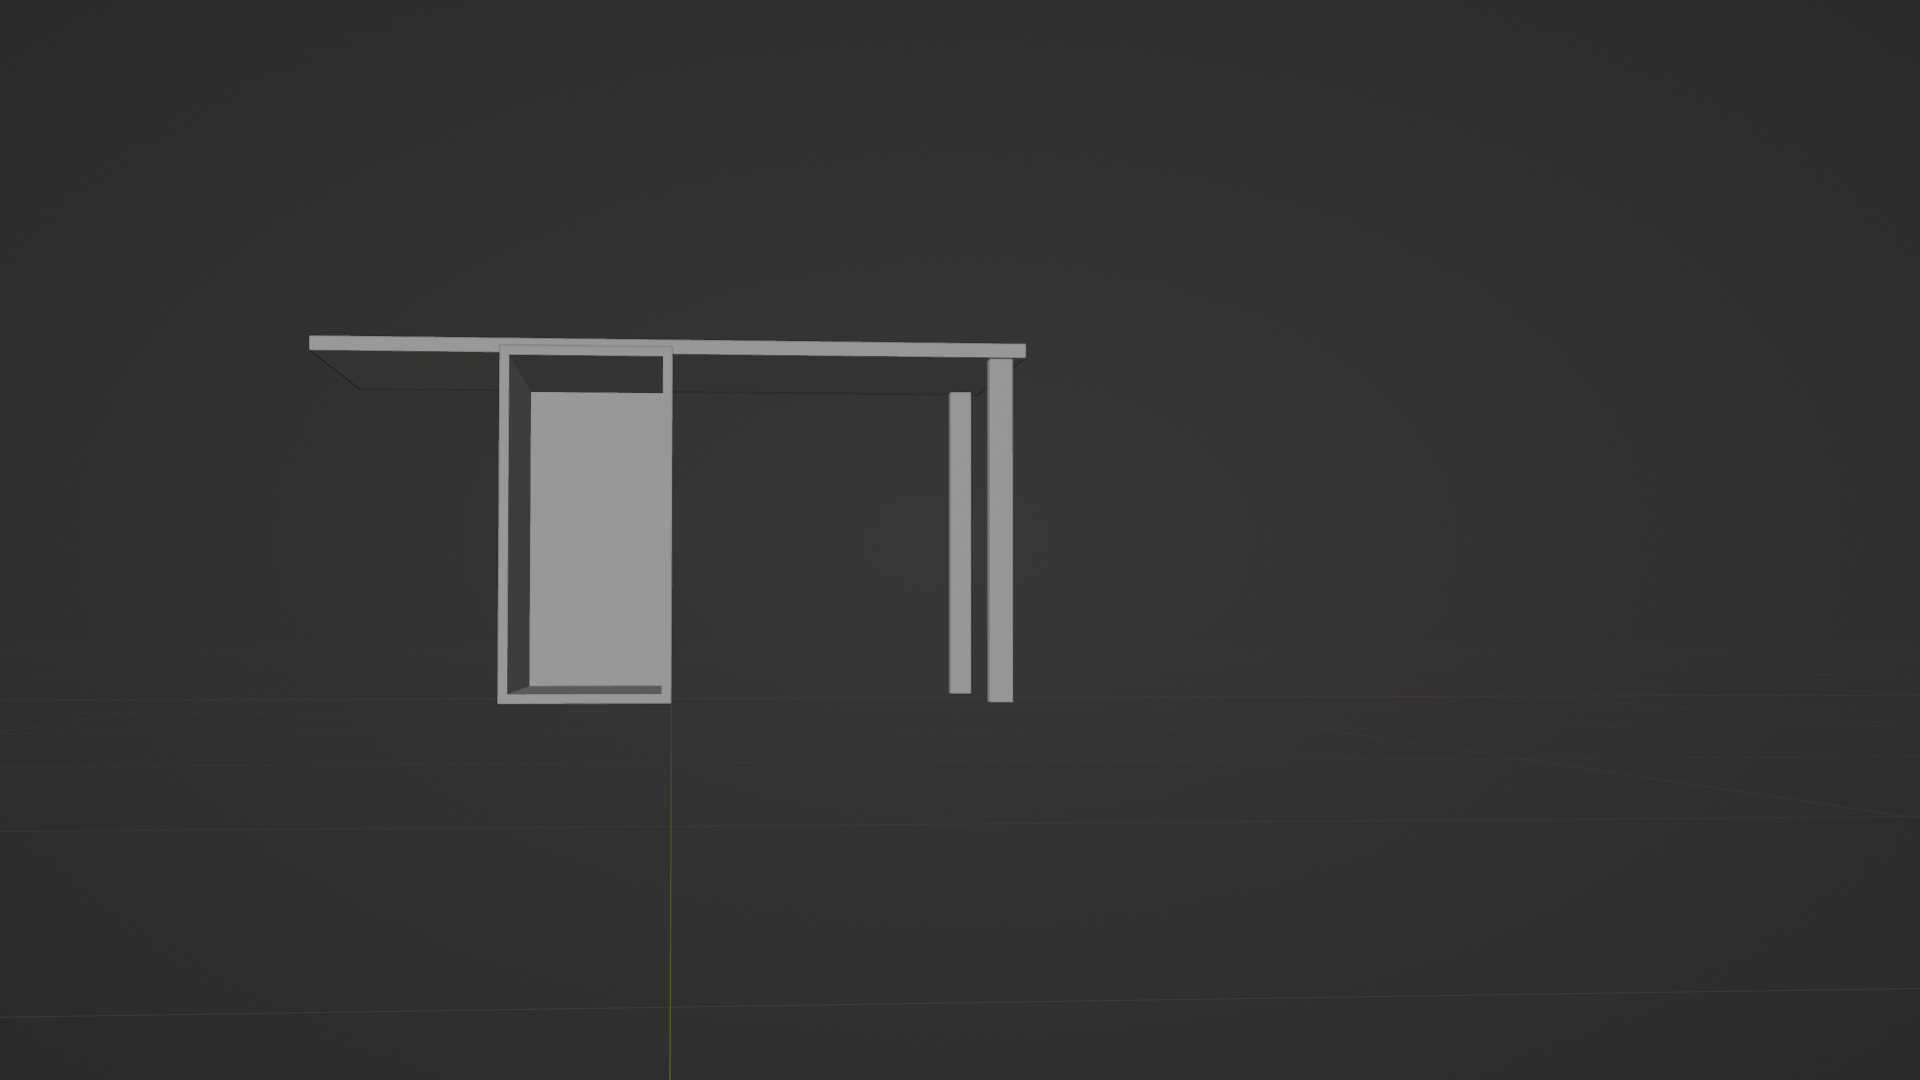
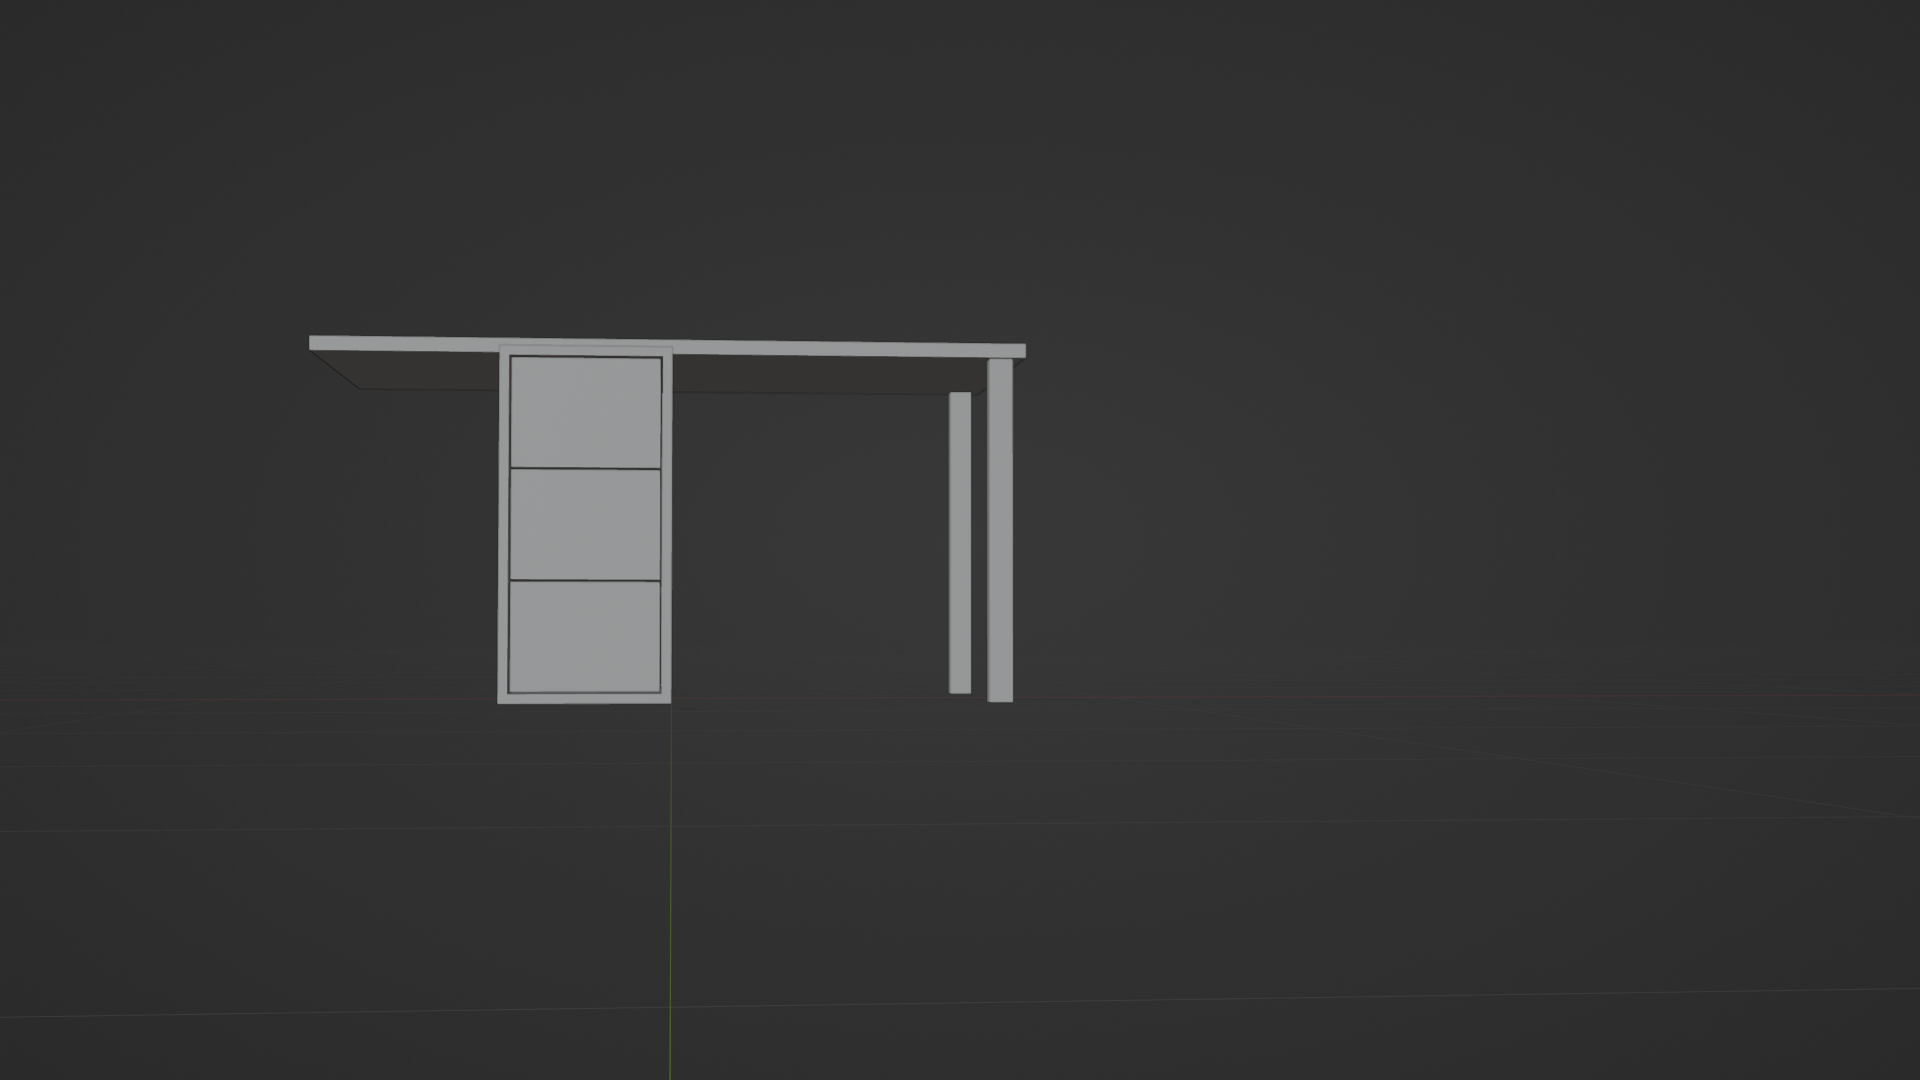
update dataset for desk.md

Changed region(s): [[0.25, 0.3056, 0.3438, 0.6417]]

diff --git a/llama_index_model_modification.py b/llama_index_model_modification.py
@@ -163,8 +163,11 @@ class MODIFICATION_OT_query_and_generate(Operator):
             gpt_tool = context.scene.gpt_tool
             initialize_conversation(gpt_tool)
             messages = [{"role": msg.role, "content": msg.content} for msg in gpt_tool.messages]
+
+            scene_info = get_scene_info()
+            formatted_scene_info = format_scene_info(scene_info)
             
-            prompt = f"基于以下信息生成Blender命令：\n\n图像分析：{gpt_description}\n\可以参考相关问题的解决文档{result}\n\n请生成适当的Blender Python命令来修复或改进模型，注意当前的运行函数允许导入新的库，所以请生成代码时也import相关的库。"
+            prompt = f"基于以下信息生成Blender命令：\n\nblender内的场景信息:{formatted_scene_info}\n\n图像分析：{gpt_description}\n\可以参考相关问题的解决文档{result}\n\n请生成适当的Blender Python命令来修复或改进模型，注意当前的运行函数允许导入新的库，所以请生成代码时也import相关的库。"
             
             response = generate_text_with_context(messages, prompt)
             logger.info(f"GPT-4 Generated Commands: {response}")

diff --git a/data/model_generation/furniture/table/desk.md b/data/model_generation/furniture/table/desk.md
@@ -21,8 +21,12 @@ legs_collection = bpy.data.collections.new("Legs")
 main_collection.children.link(legs_collection)
 
 # 创建柜子子集合
-canbinet_collection = bpy.data.collections.new("Cabinet")
-main_collection.children.link(canbinet_collection)
+cabinet_collection = bpy.data.collections.new("Cabinet")
+main_collection.children.link(cabinet_collection)
+
+# 创建抽屉子集合
+drawers_collection = bpy.data.collections.new("Drawers")
+cabinet_collection.children.link(drawers_collection)
 
 # 设置主集合为活动集合
 layer_collection = bpy.context.view_layer.layer_collection.children[main_collection.name]
@@ -41,7 +45,6 @@ for coll in tabletop.users_collection:
 
 # 创建桌腿
 def create_leg(name, location):
-    # 临时将活动集合设置为legs_collection
     bpy.context.view_layer.active_layer_collection = bpy.context.view_layer.layer_collection.children[main_collection.name].children[legs_collection.name]
     
     bpy.ops.mesh.primitive_cube_add(size=1, location=location)
@@ -49,17 +52,15 @@ def create_leg(name, location):
     leg.scale = (0.05, 0.05, 0.75)
     leg.name = name
     
-    # 确保桌腿只在legs集合中
     for coll in leg.users_collection:
         if coll != legs_collection:
             coll.objects.unlink(leg)
     
-    # 恢复主集合为活动集合
     bpy.context.view_layer.active_layer_collection = layer_collection
     
     return leg
 
-# 创建两条条桌腿
+# 创建两条桌腿
 leg1 = create_leg("leg1", (0.7, 0.4, 0.375))
 leg2 = create_leg("leg2", (0.7, -0.4, 0.375))
 
@@ -67,32 +68,38 @@ leg2 = create_leg("leg2", (0.7, -0.4, 0.375))
 cabinet_thickness = 0.02
 
 # 创建柜子外壳
-def create_cabinet_shell(length, width, height):
-    # 临时将活动集合设置为legs_collection
-    bpy.context.view_layer.active_layer_collection = bpy.context.view_layer.layer_collection.children[main_collection.name].children[canbinet_collection.name]
+def create_cabinet_shell(length, width, height, thickness):
+    bpy.context.view_layer.active_layer_collection = bpy.context.view_layer.layer_collection.children[main_collection.name].children[cabinet_collection.name]
 
-    bpy.ops.mesh.primitive_cube_add(size=1, location=(0, 0, 0))
+    location = (-length/2, 0, height/2)
+    bpy.ops.mesh.primitive_cube_add(size=1, location=location)
     cabinet = bpy.context.active_object
     cabinet.scale = (length, width, height)
-    cabinet.location = (-length/2, 0, height/2)
     cabinet.name = "cabinet_shell"
 
-    # 恢复主集合为活动集合
+    inner_cube = create_cabinet_inner_cube(length, width, height, thickness, location)
+
+    # 执行布尔差运算
+    boolean_difference(cabinet, inner_cube)
+
     bpy.context.view_layer.active_layer_collection = layer_collection
     
     return cabinet
 
 # 创建用于挖空的内部立方体
-def create_inner_cube(length, width, height, thickness):
+def create_cabinet_inner_cube(length, width, height, thickness, cabinet_location):
     inner_length = length - 2 * thickness
     inner_width = width - thickness
     inner_height = height - 2 * thickness
     
-    bpy.ops.mesh.primitive_cube_add(size=1, location=(0, 0, 0))
+    inner_x = cabinet_location[0]
+    inner_y = cabinet_location[1] - (thickness/2 + 0.001)
+    inner_z = cabinet_location[2]
+    
+    bpy.ops.mesh.primitive_cube_add(size=1, location=(inner_x, inner_y, inner_z))
     inner_cube = bpy.context.active_object
     inner_cube.scale = (inner_length, inner_width, inner_height)
-    inner_cube.location = (-length/2, -thickness/2, height/2)
-    inner_cube.name = "inner_cube"
+    inner_cube.name = "cabinet_inner_cube"
     return inner_cube
 
 # 执行布尔差运算
@@ -103,31 +110,73 @@ def boolean_difference(obj1, obj2):
     obj2.select_set(True)
     bpy.ops.object.boolean_difference()
 
+# 创建抽屉
+def create_drawer(length, width, height, thickness, location):
+    bpy.context.view_layer.active_layer_collection = bpy.context.view_layer.layer_collection.children[main_collection.name].children[cabinet_collection.name].children[drawers_collection.name]
+
+    # 创建抽屉外壳
+    bpy.ops.mesh.primitive_cube_add(size=1, location=location)
+    drawer = bpy.context.active_object
+    drawer.scale = (length, width, height)
+    drawer.name = f"drawer_{len(drawers_collection.objects)}"
+
+    inner_cube = create_drawer_inner_cube(length, width, height, thickness, location)
+
+    # 执行布尔差运算
+    boolean_difference(drawer, inner_cube)
+
+    bpy.context.view_layer.active_layer_collection = layer_collection
+
+    return drawer
+
+def create_drawer_inner_cube(length, width, height, thickness, drawer_location):
+    inner_length = length - 2 * thickness
+    inner_width = width - 2 * thickness
+    inner_height = height - thickness
+    
+    # 计算inner_cube的位置
+    inner_x = drawer_location[0]
+    inner_y = drawer_location[1]
+    inner_z = drawer_location[2] + (thickness/2 + 0.001)  # 将inner_cube向上移动thickness/2,这里多加0.001是因为完全贴合的两个模型有时候不能正常移除某一边的面，使得外观看上去没有变化
+    
+    bpy.ops.mesh.primitive_cube_add(size=1, location=(inner_x, inner_y, inner_z))
+    inner_cube = bpy.context.active_object
+    inner_cube.scale = (inner_length, inner_width, inner_height)
+    inner_cube.name = f"drawer_inner_{len(drawers_collection.objects)}"
+    
+    return inner_cube
+
 # 主函数
-def create_cabinet():
+def create_cabinet_with_drawers():
     # 获取桌面和桌腿的尺寸
     tabletop = bpy.data.objects["table_top"]
     leg = bpy.data.objects["leg1"]
     
     cabinet_length = 0.36  # 自定义长度
     cabinet_width = tabletop.scale[1] # 与桌面宽度相同
-    cabinet_height = leg.scale[2] # 与桌腿高度相同
+    cabinet_height = leg.scale[2]# 与桌腿高度相同
     
     # 创建柜子外壳
-    cabinet_shell = create_cabinet_shell(cabinet_length, cabinet_width, cabinet_height)
+    cabinet_shell = create_cabinet_shell(cabinet_length, cabinet_width, cabinet_height, cabinet_thickness)
     
-    # 创建内部立方体用于挖空
-    inner_cube = create_inner_cube(cabinet_length, cabinet_width, cabinet_height, cabinet_thickness)
-    
-    # 执行布尔差运算
-    boolean_difference(cabinet_shell, inner_cube)
-    
-    # 将柜子移动到适当位置
-    cabinet_shell.location = (-cabinet_length/2, 0, cabinet_height/2)
-    
+    # 抽屉参数
+    drawer_count = 3
+    gap = 0.005
+    drawer_thickness = 0.01
+
+    inner_height = cabinet_height - 2 * cabinet_thickness
+    drawer_height = (inner_height - ((drawer_count + 1) * gap)) / drawer_count
+    drawer_length = cabinet_length - 2 * cabinet_thickness - 2 * gap
+    drawer_width = cabinet_width - cabinet_thickness - 2 * gap
+
+    # 创建抽屉
+    for i in range(drawer_count):
+        drawer_z = (i + 1) * gap + i * drawer_height + drawer_height / 2 + cabinet_thickness
+        drawer_location = (-cabinet_length/2 + cabinet_thickness + gap, -cabinet_thickness/2 - gap, drawer_z)
+        create_drawer(drawer_length, drawer_width, drawer_height, drawer_thickness, drawer_location)
 
 # 调用主函数
-create_cabinet()
+create_cabinet_with_drawers()
 
 # 更新场景
 bpy.context.view_layer.update()

diff --git a/data/model_modification/furniture/table/table_leg_structure_precision_fix.md b/data/model_modification/furniture/table/table_leg_structure_precision_fix.md
@@ -77,10 +77,10 @@ print("操作完成")
 
 ### 1. `get_face_corners(obj, normal_direction)`
 
-这个函数用于获取指定对象的特定面的所有角点。
+这个函数用于获取指定3D对象的特定面的所有角点。
 
 - **参数**:
-  - `obj`: Blender 对象
+  - `obj`: Blender 3D对象
   - `normal_direction`: 面的法线方向
 - **返回值**: 面的角点列表（世界坐标系）
 - **功能**: 
@@ -101,47 +101,41 @@ print("操作完成")
   - 根据指定的类型，使用不同的计算方法选择相应的角点
   - 例如，"RIGHT_TOP" 选择 x+y 值最大的点
 
-### 3. `align_leg_to_table(table_top, leg, table_corner_type, leg_corner_type)`
+### 3. `align_component_to_base(base_component, align_component, base_corner_type, align_corner_type)`
 
-这个函数执行桌腿到桌面的对齐操作。
+这个函数执行两个3D组件之间的对齐操作。
 
 - **参数**:
-  - `table_top`: 桌面对象
-  - `leg`: 桌腿对象
-  - `table_corner_type`: 桌面要对齐的角点类型
-  - `leg_corner_type`: 桌腿要对齐的角点类型
+  - `base_component`: 基准组件对象
+  - `align_component`: 需要对齐的组件对象
+  - `base_corner_type`: 基准组件要对齐的角点类型
+  - `align_corner_type`: 需要对齐的组件的角点类型
 - **功能**:
-  - 获取桌面底部和桌腿顶部的角点
+  - 获取基准组件和需要对齐的组件的相关面的角点
   - 选择指定类型的角点进行对齐
-  - 计算偏移量并移动桌腿
+  - 计算偏移量并移动需要对齐的组件
 
 ## 主脚本流程
 
 1. 设置 Blender 为对象模式
-2. 获取桌面和所有桌腿对象
-3. 定义每个桌腿应该对齐的角点类型
-4. 遍历每个桌腿，执行对齐操作：
-   - 将桌腿的指定角点与桌面的相应角点对齐
-   - 例如，将第一个桌腿的左上角与桌面的左上角对齐
+2. 获取基准组件和需要对齐的组件对象
+3. 定义每个需要对齐的组件应该对齐的角点类型
+4. 遍历每个需要对齐的组件，执行对齐操作：
+   - 将需要对齐的组件的指定角点与基准组件的相应角点对齐
 
 ## 使用注意事项
-
-- 桌面对象必须命名为 'TableTop'
-- 桌腿对象必须按顺序命名为 'Leg1', 'Leg2', 'Leg3', 'Leg4'
-- 脚本假设桌子有四条腿，每条腿对应桌面的一个角落
-- 如果桌子结构不同，可能需要调整 `leg_alignments` 列表
+- 根据3D模型的具体结构，组件的数量和名称可能需要调整
+- 如果模型结构不同，可能需要调整 `component_alignments` 列表
 
 ## 优势
 
-- 精确处理垂直和水平方向的错位
-- 考虑到每个桌腿顶部的不同角点，实现更精确的对齐
-- 适用于各种规则形状的桌子模型
+- 精确处理多维度的错位问题
+- 考虑到每个组件特定面的不同角点，实现更精确的对齐
+- 适用于各种规则形状的3D模型组件
 - 自动化程度高，减少手动调整的需求
 
 ## 局限性
 
-- 不适用于非常不规则的桌子形状
+- 不适用于非常不规则的3D模型形状
 - 依赖于正确的对象命名和结构
 - 可能需要根据具体模型调整角点选择逻辑
-
-通过这个脚本，用户可以快速精确地修复 3D 桌子模型中的结构问题，确保桌腿与桌面完美对齐，从而提高模型的质量和真实感。
